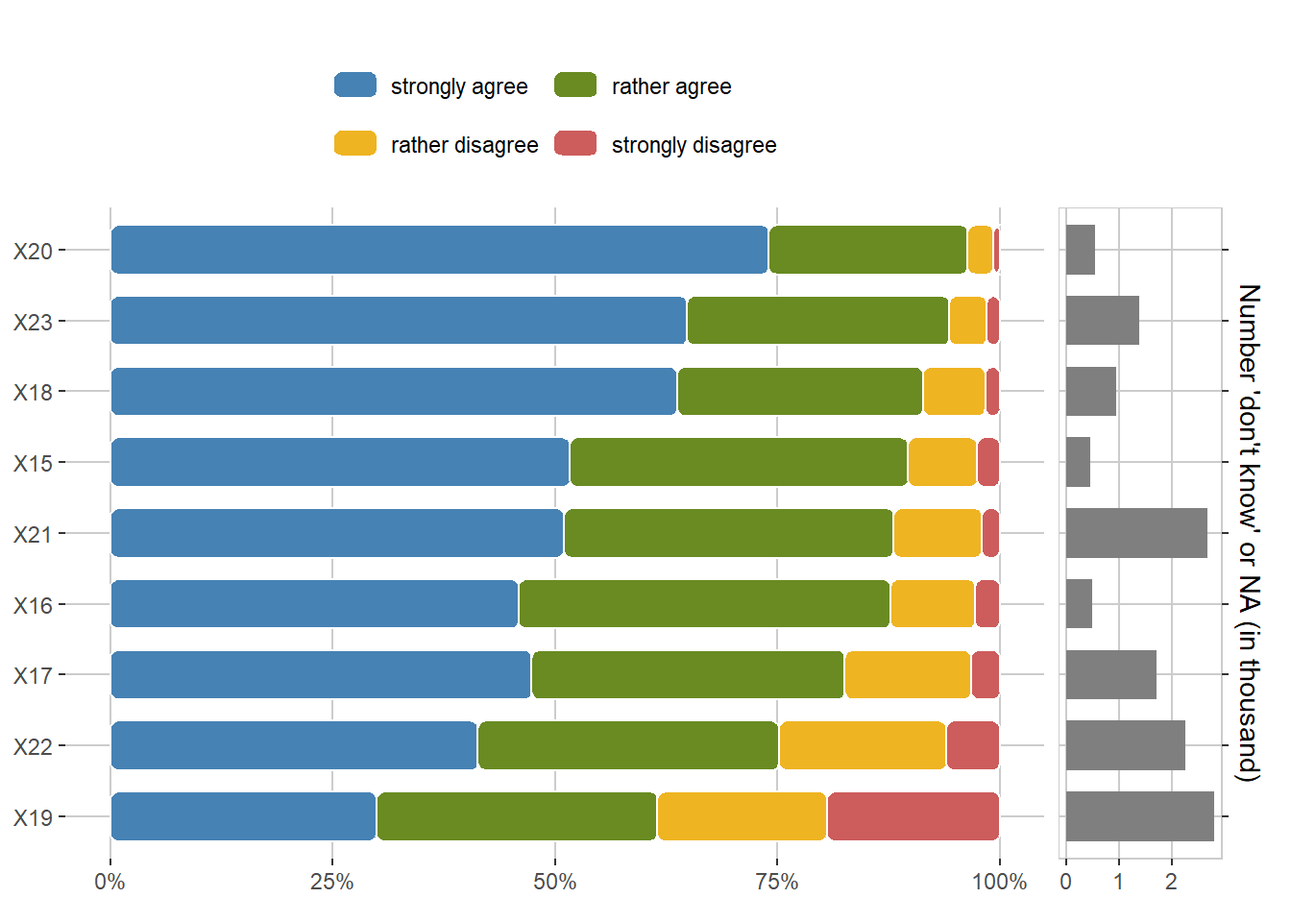
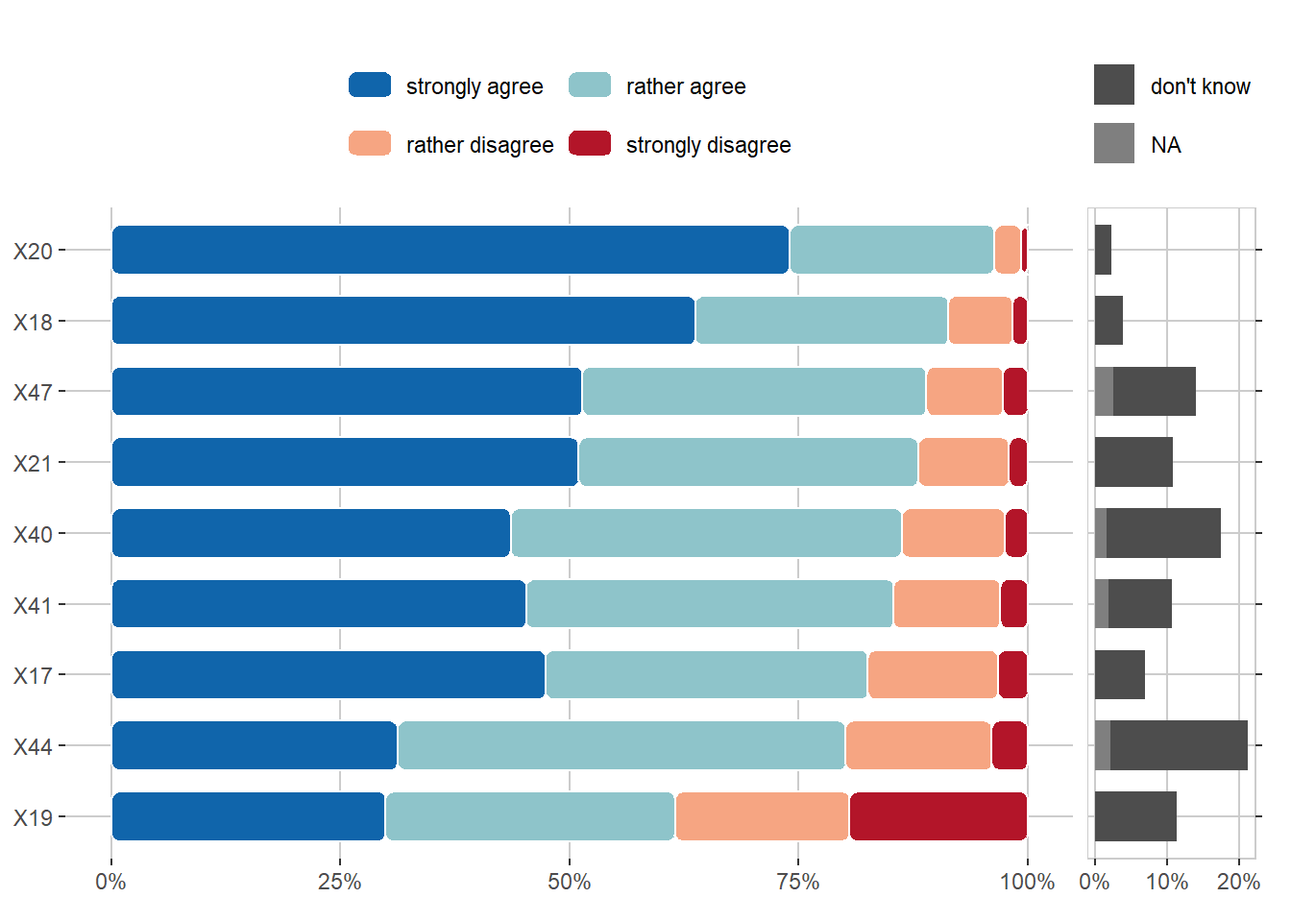
Create overview plots for all item subgroups

diff --git a/analysis_notebooks/survey_analysis.html b/analysis_notebooks/survey_analysis.html
@@ -103,27 +103,18 @@ pre > code.sourceCode > span > a:first-child::before { text-decoration: underlin
 
 </header>
 
-<section id="comparison-between-items" class="level1">
-<h1>Comparison between items</h1>
-<section id="agreement-x38-x52-open-science-focus" class="level2">
-<h2 class="anchored" data-anchor-id="agreement-x38-x52-open-science-focus">Agreement X38-X52 (open science focus)</h2>
-<p>The overviews are so far produced by the order of items in the survey. However, we plan to rearrange the items more by related topics and create overviews that way.</p>
-<section id="comparison-plot" class="level3">
-<h3 class="anchored" data-anchor-id="comparison-plot">Comparison Plot</h3>
-<p>This plot compares the selected answer categories across different agreement items and sorts them based on how many people agree. For better visualization, the labels are (for now) replaced by the short variable id. It might make sense to include only response from one year in one such plot (because otherwise some respondents would appear multiple times, while others won’t). The option to filter for a specific year is already implemented.</p>
+<section id="overview" class="level1">
+<h1>Overview</h1>
+<section id="research" class="level2">
+<h2 class="anchored" data-anchor-id="research">Research</h2>
+<section id="open-science" class="level3">
+<h3 class="anchored" data-anchor-id="open-science">Open Science</h3>
+<p>Multiple questions within the survey inquired about how much participants agreed with certain statements related to different Open Science practices. The full statements in this group and their respective variable ids are presented in the table below.</p>
 <div class="cell">
-<div class="sourceCode cell-code" id="cb1"><pre class="sourceCode r code-with-copy"><code class="sourceCode r"><span id="cb1-1"><a href="#cb1-1" aria-hidden="true" tabindex="-1"></a>columns <span class="ot">&lt;-</span> <span class="fu">paste0</span>(<span class="st">"X"</span>, <span class="dv">38</span><span class="sc">:</span><span class="dv">52</span>)</span>
-<span id="cb1-2"><a href="#cb1-2" aria-hidden="true" tabindex="-1"></a><span class="fu">plot_agreement_overview</span>(df, var_overview, columns, <span class="at">sort =</span> <span class="cn">TRUE</span>)</span></code><button title="Copy to Clipboard" class="code-copy-button"><i class="bi"></i></button></pre></div>
-<div class="cell-output-display">
-<p><img src="survey_analysis_files/figure-html/unnamed-chunk-2-1.png" class="img-fluid" width="672"></p>
-</div>
-</div>
-</section>
-<section id="full-statements" class="level3">
-<h3 class="anchored" data-anchor-id="full-statements">Full Statements</h3>
-<p>To look up the full statements that are referred to by the variable ids, we derive them here from our variable overview.</p>
-<div class="cell">
-<div class="sourceCode cell-code" id="cb2"><pre class="sourceCode r code-with-copy"><code class="sourceCode r"><span id="cb2-1"><a href="#cb2-1" aria-hidden="true" tabindex="-1"></a>knitr<span class="sc">::</span><span class="fu">kable</span>(var_overview[var_overview<span class="sc">$</span>var_id <span class="sc">%in%</span> columns, <span class="dv">1</span><span class="sc">:</span><span class="dv">2</span>])</span></code><button title="Copy to Clipboard" class="code-copy-button"><i class="bi"></i></button></pre></div>
+<div class="sourceCode cell-code" id="cb1"><pre class="sourceCode r code-with-copy"><code class="sourceCode r"><span id="cb1-1"><a href="#cb1-1" aria-hidden="true" tabindex="-1"></a>os <span class="ot">&lt;-</span> <span class="fu">c</span>(<span class="st">"X38"</span>, <span class="st">"X39"</span>, <span class="st">"X42"</span>, <span class="st">"X43"</span>, <span class="st">"X45"</span>,</span>
+<span id="cb1-2"><a href="#cb1-2" aria-hidden="true" tabindex="-1"></a>        <span class="st">"X46"</span>, <span class="st">"X48"</span>, <span class="st">"X49"</span>, <span class="st">"X50"</span>, <span class="st">"X52"</span>)</span>
+<span id="cb1-3"><a href="#cb1-3" aria-hidden="true" tabindex="-1"></a></span>
+<span id="cb1-4"><a href="#cb1-4" aria-hidden="true" tabindex="-1"></a>knitr<span class="sc">::</span><span class="fu">kable</span>(var_overview[var_overview<span class="sc">$</span>var_id <span class="sc">%in%</span> os, <span class="dv">1</span><span class="sc">:</span><span class="dv">2</span>])</span></code><button title="Copy to Clipboard" class="code-copy-button"><i class="bi"></i></button></pre></div>
 <div class="cell-output-display">
 <table class="table table-sm table-striped small">
 <colgroup>
@@ -146,14 +137,6 @@ pre > code.sourceCode > span > a:first-child::before { text-decoration: underlin
 <td style="text-align: left;">Research papers should be openly available even before the official peer review process, i.e.&nbsp;before a thorough review of their content.</td>
 </tr>
 <tr class="odd">
-<td style="text-align: left;">X40</td>
-<td style="text-align: left;">Authors should retain intellectual property rights to their published works, even at the cost of giving up some opportunities for free publication</td>
-</tr>
-<tr class="even">
-<td style="text-align: left;">X41</td>
-<td style="text-align: left;">Scholars should explain the results of their research to the general public in an understandable way.</td>
-</tr>
-<tr class="odd">
 <td style="text-align: left;">X42</td>
 <td style="text-align: left;">Researchers should publish author’s versions of manuscripts on open online resources such as Zenodo, institutional repositories, etc.</td>
 </tr>
@@ -162,20 +145,12 @@ pre > code.sourceCode > span > a:first-child::before { text-decoration: underlin
 <td style="text-align: left;">Researchers should invest time in describing their experimental data with appropriate metadata so that the data can be easily found and reused.</td>
 </tr>
 <tr class="odd">
-<td style="text-align: left;">X44</td>
-<td style="text-align: left;">Time should be invested in describing research methodology, tools, and experimental results in detail so that other researchers can reproduce them.</td>
-</tr>
-<tr class="even">
 <td style="text-align: left;">X45</td>
 <td style="text-align: left;">Experimental data should be published as openly as possible.</td>
 </tr>
-<tr class="odd">
+<tr class="even">
 <td style="text-align: left;">X46</td>
 <td style="text-align: left;">If software development is part of a research project, the source code should be published alongside the relevant scientific papers.</td>
-</tr>
-<tr class="even">
-<td style="text-align: left;">X47</td>
-<td style="text-align: left;">Researchers should always strive to ensure that their research serves a broad public purpose, regardless of the field of science in which they work.</td>
 </tr>
 <tr class="odd">
 <td style="text-align: left;">X48</td>
@@ -190,10 +165,6 @@ pre > code.sourceCode > span > a:first-child::before { text-decoration: underlin
 <td style="text-align: left;">Authors of research papers and peer reviewers should be able to communicate directly without intermediaries.</td>
 </tr>
 <tr class="even">
-<td style="text-align: left;">X51</td>
-<td style="text-align: left;">Higher education institutions should provide open access to their educational resources (textbooks, manuals, various digital tools, etc.) for everyone.</td>
-</tr>
-<tr class="odd">
 <td style="text-align: left;">X52</td>
 <td style="text-align: left;">I can explain what “open science” is.</td>
 </tr>
@@ -201,30 +172,26 @@ pre > code.sourceCode > span > a:first-child::before { text-decoration: underlin
 </table>
 </div>
 </div>
-</section>
-</section>
-<section id="agreement-x15-x23-research-integrity-focus" class="level2">
-<h2 class="anchored" data-anchor-id="agreement-x15-x23-research-integrity-focus">Agreement X15-X23 (research integrity focus)</h2>
-<section id="comparison-plot-1" class="level3">
-<h3 class="anchored" data-anchor-id="comparison-plot-1">Comparison Plot</h3>
-<p>Caution: X19 is phrased as an inverted item, while all others are not. This needs to be considered for interpretation</p>
+<p>In the following figure, responses are visualized to the Open Science questions. They are sorted by the amount of agreement with these statements. Proportions of the different answer categories were calculated after removing missing and “don’t know” responses. These responses are plotted separately on the right hand side, indicating their percentage of the total responses.</p>
 <div class="cell">
-<div class="sourceCode cell-code" id="cb3"><pre class="sourceCode r code-with-copy"><code class="sourceCode r"><span id="cb3-1"><a href="#cb3-1" aria-hidden="true" tabindex="-1"></a>columns <span class="ot">&lt;-</span> <span class="fu">paste0</span>(<span class="st">"X"</span>, <span class="dv">15</span><span class="sc">:</span><span class="dv">23</span>)</span>
-<span id="cb3-2"><a href="#cb3-2" aria-hidden="true" tabindex="-1"></a><span class="fu">plot_agreement_overview</span>(df, var_overview, columns)</span></code><button title="Copy to Clipboard" class="code-copy-button"><i class="bi"></i></button></pre></div>
+<div class="sourceCode cell-code" id="cb2"><pre class="sourceCode r code-with-copy"><code class="sourceCode r"><span id="cb2-1"><a href="#cb2-1" aria-hidden="true" tabindex="-1"></a><span class="fu">plot_agreement_overview</span>(df, var_overview, os)</span></code><button title="Copy to Clipboard" class="code-copy-button"><i class="bi"></i></button></pre></div>
 <div class="cell-output-display">
-<p><img src="survey_analysis_files/figure-html/unnamed-chunk-4-1.png" class="img-fluid" width="672"></p>
+<p><img src="survey_analysis_files/figure-html/unnamed-chunk-3-1.png" class="img-fluid" width="672"></p>
 </div>
 </div>
 </section>
-<section id="full-statements-1" class="level3">
-<h3 class="anchored" data-anchor-id="full-statements-1">Full Statements</h3>
+<section id="reporting-and-academic-integrity" class="level3">
+<h3 class="anchored" data-anchor-id="reporting-and-academic-integrity">Reporting and Academic Integrity</h3>
+<p>Nine items inquire about the agreement with statements related to reporting and academic integrity. The full items are presented in the table below.</p>
 <div class="cell">
-<div class="sourceCode cell-code" id="cb4"><pre class="sourceCode r code-with-copy"><code class="sourceCode r"><span id="cb4-1"><a href="#cb4-1" aria-hidden="true" tabindex="-1"></a>knitr<span class="sc">::</span><span class="fu">kable</span>(var_overview[var_overview<span class="sc">$</span>var_id <span class="sc">%in%</span> columns, <span class="dv">1</span><span class="sc">:</span><span class="dv">2</span>])</span></code><button title="Copy to Clipboard" class="code-copy-button"><i class="bi"></i></button></pre></div>
+<div class="sourceCode cell-code" id="cb3"><pre class="sourceCode r code-with-copy"><code class="sourceCode r"><span id="cb3-1"><a href="#cb3-1" aria-hidden="true" tabindex="-1"></a>raia <span class="ot">&lt;-</span> <span class="fu">c</span>(<span class="st">"X19"</span>, <span class="st">"X17"</span>, <span class="st">"X18"</span>, <span class="st">"X20"</span>, <span class="st">"X21"</span>,</span>
+<span id="cb3-2"><a href="#cb3-2" aria-hidden="true" tabindex="-1"></a>          <span class="st">"X40"</span>, <span class="st">"X44"</span>, <span class="st">"X41"</span>, <span class="st">"X47"</span>)</span>
+<span id="cb3-3"><a href="#cb3-3" aria-hidden="true" tabindex="-1"></a>knitr<span class="sc">::</span><span class="fu">kable</span>(var_overview[var_overview<span class="sc">$</span>var_id <span class="sc">%in%</span> raia, <span class="dv">1</span><span class="sc">:</span><span class="dv">2</span>])</span></code><button title="Copy to Clipboard" class="code-copy-button"><i class="bi"></i></button></pre></div>
 <div class="cell-output-display">
 <table class="table table-sm table-striped small">
 <colgroup>
-<col style="width: 5%">
-<col style="width: 94%">
+<col style="width: 4%">
+<col style="width: 95%">
 </colgroup>
 <thead>
 <tr class="header">
@@ -233,14 +200,6 @@ pre > code.sourceCode > span > a:first-child::before { text-decoration: underlin
 </tr>
 </thead>
 <tbody>
-<tr class="odd">
-<td style="text-align: left;">X15</td>
-<td style="text-align: left;">Overall, the processes at my higher education institution are organised in a clear and transparent manner</td>
-</tr>
-<tr class="even">
-<td style="text-align: left;">X16</td>
-<td style="text-align: left;">The quality of educational services at my higher education institution is high</td>
-</tr>
 <tr class="odd">
 <td style="text-align: left;">X17</td>
 <td style="text-align: left;">Researchers should publish all research results (both positive and negative)</td>
@@ -262,35 +221,36 @@ pre > code.sourceCode > span > a:first-child::before { text-decoration: underlin
 <td style="text-align: left;">Researchers should report any conflicts of interest when publishing research results and applying for funding</td>
 </tr>
 <tr class="even">
-<td style="text-align: left;">X22</td>
-<td style="text-align: left;">Students should openly publish the full texts of their diploma theses</td>
+<td style="text-align: left;">X40</td>
+<td style="text-align: left;">Authors should retain intellectual property rights to their published works, even at the cost of giving up some opportunities for free publication</td>
 </tr>
 <tr class="odd">
-<td style="text-align: left;">X23</td>
-<td style="text-align: left;">Students must understand what constitutes inappropriate academic behavior and report it to the appropriate authorities</td>
+<td style="text-align: left;">X41</td>
+<td style="text-align: left;">Scholars should explain the results of their research to the general public in an understandable way.</td>
+</tr>
+<tr class="even">
+<td style="text-align: left;">X44</td>
+<td style="text-align: left;">Time should be invested in describing research methodology, tools, and experimental results in detail so that other researchers can reproduce them.</td>
+</tr>
+<tr class="odd">
+<td style="text-align: left;">X47</td>
+<td style="text-align: left;">Researchers should always strive to ensure that their research serves a broad public purpose, regardless of the field of science in which they work.</td>
 </tr>
 </tbody>
 </table>
 </div>
 </div>
-</section>
-</section>
-<section id="frequency-of-certain-practices-at-own-institution-x24-x37" class="level2">
-<h2 class="anchored" data-anchor-id="frequency-of-certain-practices-at-own-institution-x24-x37">Frequency of certain practices at own institution (X24-X37)</h2>
-<section id="comparison-plot-2" class="level3">
-<h3 class="anchored" data-anchor-id="comparison-plot-2">Comparison Plot</h3>
+<p>Caution: Question X19 (“Changes to the experimental data […] are acceptable”) is the only statement phrased in the opposite direction. This needs to be considered when interpreting the responses.</p>
 <div class="cell">
-<div class="sourceCode cell-code" id="cb5"><pre class="sourceCode r code-with-copy"><code class="sourceCode r"><span id="cb5-1"><a href="#cb5-1" aria-hidden="true" tabindex="-1"></a>columns <span class="ot">&lt;-</span> <span class="fu">paste0</span>(<span class="st">"X"</span>, <span class="dv">24</span><span class="sc">:</span><span class="dv">37</span>)</span>
-<span id="cb5-2"><a href="#cb5-2" aria-hidden="true" tabindex="-1"></a><span class="fu">plot_frequency_overview</span>(df, var_overview, columns)</span></code><button title="Copy to Clipboard" class="code-copy-button"><i class="bi"></i></button></pre></div>
+<div class="sourceCode cell-code" id="cb4"><pre class="sourceCode r code-with-copy"><code class="sourceCode r"><span id="cb4-1"><a href="#cb4-1" aria-hidden="true" tabindex="-1"></a><span class="fu">plot_agreement_overview</span>(df, var_overview, raia)</span></code><button title="Copy to Clipboard" class="code-copy-button"><i class="bi"></i></button></pre></div>
 <div class="cell-output-display">
-<p><img src="survey_analysis_files/figure-html/unnamed-chunk-6-1.png" class="img-fluid" width="672"></p>
+<p><img src="survey_analysis_files/figure-html/unnamed-chunk-5-1.png" class="img-fluid" width="672"></p>
 </div>
 </div>
-</section>
-<section id="full-statements-2" class="level3">
-<h3 class="anchored" data-anchor-id="full-statements-2">Full Statements</h3>
+<p>Six questions were about the frequency with which certain questionable research practices around reporting occur at the respondent’s institution (see table below).</p>
 <div class="cell">
-<div class="sourceCode cell-code" id="cb6"><pre class="sourceCode r code-with-copy"><code class="sourceCode r"><span id="cb6-1"><a href="#cb6-1" aria-hidden="true" tabindex="-1"></a>knitr<span class="sc">::</span><span class="fu">kable</span>(var_overview[var_overview<span class="sc">$</span>var_id <span class="sc">%in%</span> columns, <span class="dv">1</span><span class="sc">:</span><span class="dv">2</span>])</span></code><button title="Copy to Clipboard" class="code-copy-button"><i class="bi"></i></button></pre></div>
+<div class="sourceCode cell-code" id="cb5"><pre class="sourceCode r code-with-copy"><code class="sourceCode r"><span id="cb5-1"><a href="#cb5-1" aria-hidden="true" tabindex="-1"></a>raif <span class="ot">&lt;-</span> <span class="fu">c</span>(<span class="st">"X24"</span>, <span class="st">"X25"</span>, <span class="st">"X26"</span>, <span class="st">"X27"</span>, <span class="st">"X28"</span>, <span class="st">"X29"</span>)</span>
+<span id="cb5-2"><a href="#cb5-2" aria-hidden="true" tabindex="-1"></a>knitr<span class="sc">::</span><span class="fu">kable</span>(var_overview[var_overview<span class="sc">$</span>var_id <span class="sc">%in%</span> raif, <span class="dv">1</span><span class="sc">:</span><span class="dv">2</span>])</span></code><button title="Copy to Clipboard" class="code-copy-button"><i class="bi"></i></button></pre></div>
 <div class="cell-output-display">
 <table class="table table-sm table-striped small">
 <colgroup>
@@ -328,6 +288,81 @@ pre > code.sourceCode > span > a:first-child::before { text-decoration: underlin
 <td style="text-align: left;">X29</td>
 <td style="text-align: left;">A person attributes to himself or herself the authorship of a work (assignment, article, etc.) that he or she did not actually perform, but arranged for others to perform it for a fee or in another way.</td>
 </tr>
+</tbody>
+</table>
+</div>
+</div>
+<p>The following overview plot is sorted by the proportion of “never” and “rarely” responses. These questions could not be skipped, therefore there are no missing answers.</p>
+<div class="cell">
+<div class="sourceCode cell-code" id="cb6"><pre class="sourceCode r code-with-copy"><code class="sourceCode r"><span id="cb6-1"><a href="#cb6-1" aria-hidden="true" tabindex="-1"></a><span class="fu">plot_frequency_overview</span>(df, var_overview, raif)</span></code><button title="Copy to Clipboard" class="code-copy-button"><i class="bi"></i></button></pre></div>
+<div class="cell-output-display">
+<p><img src="survey_analysis_files/figure-html/unnamed-chunk-7-1.png" class="img-fluid" width="672"></p>
+</div>
+</div>
+</section>
+</section>
+<section id="education" class="level2">
+<h2 class="anchored" data-anchor-id="education">Education</h2>
+<p>While most questions referred to research, others focused more on education at the respective HEI. Respondents were inquired about their agreement with certain education-related statements (see table below), most of them also related to Open Science, but in an educational context.</p>
+<div class="cell">
+<div class="sourceCode cell-code" id="cb7"><pre class="sourceCode r code-with-copy"><code class="sourceCode r"><span id="cb7-1"><a href="#cb7-1" aria-hidden="true" tabindex="-1"></a>edua <span class="ot">&lt;-</span> <span class="fu">c</span>(<span class="st">"X16"</span>, <span class="st">"X22"</span>, <span class="st">"X23"</span>, <span class="st">"X51"</span>)</span>
+<span id="cb7-2"><a href="#cb7-2" aria-hidden="true" tabindex="-1"></a>knitr<span class="sc">::</span><span class="fu">kable</span>(var_overview[var_overview<span class="sc">$</span>var_id <span class="sc">%in%</span> edua, <span class="dv">1</span><span class="sc">:</span><span class="dv">2</span>])</span></code><button title="Copy to Clipboard" class="code-copy-button"><i class="bi"></i></button></pre></div>
+<div class="cell-output-display">
+<table class="table table-sm table-striped small">
+<colgroup>
+<col style="width: 4%">
+<col style="width: 95%">
+</colgroup>
+<thead>
+<tr class="header">
+<th style="text-align: left;">var_id</th>
+<th style="text-align: left;">var_full</th>
+</tr>
+</thead>
+<tbody>
+<tr class="odd">
+<td style="text-align: left;">X16</td>
+<td style="text-align: left;">The quality of educational services at my higher education institution is high</td>
+</tr>
+<tr class="even">
+<td style="text-align: left;">X22</td>
+<td style="text-align: left;">Students should openly publish the full texts of their diploma theses</td>
+</tr>
+<tr class="odd">
+<td style="text-align: left;">X23</td>
+<td style="text-align: left;">Students must understand what constitutes inappropriate academic behavior and report it to the appropriate authorities</td>
+</tr>
+<tr class="even">
+<td style="text-align: left;">X51</td>
+<td style="text-align: left;">Higher education institutions should provide open access to their educational resources (textbooks, manuals, various digital tools, etc.) for everyone.</td>
+</tr>
+</tbody>
+</table>
+</div>
+</div>
+<div class="cell">
+<div class="sourceCode cell-code" id="cb8"><pre class="sourceCode r code-with-copy"><code class="sourceCode r"><span id="cb8-1"><a href="#cb8-1" aria-hidden="true" tabindex="-1"></a><span class="fu">plot_agreement_overview</span>(df, var_overview, edua, <span class="at">sort =</span> <span class="cn">FALSE</span>)</span></code><button title="Copy to Clipboard" class="code-copy-button"><i class="bi"></i></button></pre></div>
+<div class="cell-output-display">
+<p><img src="survey_analysis_files/figure-html/unnamed-chunk-9-1.png" class="img-fluid" width="672"></p>
+</div>
+</div>
+<p>The occurrence of three different types of student misconduct were also investigated within the survey (see table and figure below).</p>
+<div class="cell">
+<div class="sourceCode cell-code" id="cb9"><pre class="sourceCode r code-with-copy"><code class="sourceCode r"><span id="cb9-1"><a href="#cb9-1" aria-hidden="true" tabindex="-1"></a>eduf <span class="ot">&lt;-</span> <span class="fu">c</span>(<span class="st">"X30"</span>, <span class="st">"X31"</span>, <span class="st">"X32"</span>)</span>
+<span id="cb9-2"><a href="#cb9-2" aria-hidden="true" tabindex="-1"></a>knitr<span class="sc">::</span><span class="fu">kable</span>(var_overview[var_overview<span class="sc">$</span>var_id <span class="sc">%in%</span> eduf, <span class="dv">1</span><span class="sc">:</span><span class="dv">2</span>])</span></code><button title="Copy to Clipboard" class="code-copy-button"><i class="bi"></i></button></pre></div>
+<div class="cell-output-display">
+<table class="table table-sm table-striped small">
+<colgroup>
+<col style="width: 7%">
+<col style="width: 92%">
+</colgroup>
+<thead>
+<tr class="header">
+<th style="text-align: left;">var_id</th>
+<th style="text-align: left;">var_full</th>
+</tr>
+</thead>
+<tbody>
 <tr class="odd">
 <td style="text-align: left;">X30</td>
 <td style="text-align: left;">Students help each other during exams or tests.</td>
@@ -340,23 +375,53 @@ pre > code.sourceCode > span > a:first-child::before { text-decoration: underlin
 <td style="text-align: left;">X32</td>
 <td style="text-align: left;">Students and teachers use unauthorized software (so-called “pirated software”).</td>
 </tr>
-<tr class="even">
+</tbody>
+</table>
+</div>
+</div>
+<div class="cell">
+<div class="sourceCode cell-code" id="cb10"><pre class="sourceCode r code-with-copy"><code class="sourceCode r"><span id="cb10-1"><a href="#cb10-1" aria-hidden="true" tabindex="-1"></a><span class="fu">plot_frequency_overview</span>(df, var_overview, eduf)</span></code><button title="Copy to Clipboard" class="code-copy-button"><i class="bi"></i></button></pre></div>
+<div class="cell-output-display">
+<p><img src="survey_analysis_files/figure-html/unnamed-chunk-11-1.png" class="img-fluid" width="672"></p>
+</div>
+</div>
+</section>
+<section id="institutionadministration" class="level2">
+<h2 class="anchored" data-anchor-id="institutionadministration">Institution/Administration</h2>
+<p>The survey contained five questions on how misconduct is handled at the respondent’s respective institution. Respondents indicated the frequency with which certain practices occurred at their institution.</p>
+<div class="cell">
+<div class="sourceCode cell-code" id="cb11"><pre class="sourceCode r code-with-copy"><code class="sourceCode r"><span id="cb11-1"><a href="#cb11-1" aria-hidden="true" tabindex="-1"></a>adm <span class="ot">&lt;-</span> <span class="fu">c</span>(<span class="st">"X33"</span>, <span class="st">"X34"</span>, <span class="st">"X35"</span>, <span class="st">"X36"</span>, <span class="st">"X37"</span>)</span>
+<span id="cb11-2"><a href="#cb11-2" aria-hidden="true" tabindex="-1"></a>knitr<span class="sc">::</span><span class="fu">kable</span>(var_overview[var_overview<span class="sc">$</span>var_id <span class="sc">%in%</span> adm, <span class="dv">1</span><span class="sc">:</span><span class="dv">2</span>])</span></code><button title="Copy to Clipboard" class="code-copy-button"><i class="bi"></i></button></pre></div>
+<div class="cell-output-display">
+<table class="table table-sm table-striped small">
+<colgroup>
+<col style="width: 6%">
+<col style="width: 93%">
+</colgroup>
+<thead>
+<tr class="header">
+<th style="text-align: left;">var_id</th>
+<th style="text-align: left;">var_full</th>
+</tr>
+</thead>
+<tbody>
+<tr class="odd">
 <td style="text-align: left;">X33</td>
 <td style="text-align: left;">Incitement to violate academic integrity.</td>
 </tr>
-<tr class="odd">
+<tr class="even">
 <td style="text-align: left;">X34</td>
 <td style="text-align: left;">The administration of the institution tolerates cases of academic dishonesty.</td>
 </tr>
-<tr class="even">
+<tr class="odd">
 <td style="text-align: left;">X35</td>
 <td style="text-align: left;">Falsely accusing a student or employee of misconduct or other violations.</td>
 </tr>
-<tr class="odd">
+<tr class="even">
 <td style="text-align: left;">X36</td>
 <td style="text-align: left;">Abuse of official position or authority to encourage academic dishonesty.</td>
 </tr>
-<tr class="even">
+<tr class="odd">
 <td style="text-align: left;">X37</td>
 <td style="text-align: left;">The university administration accuses and punishes whistleblowers of academic integrity violations.</td>
 </tr>
@@ -364,43 +429,20 @@ pre > code.sourceCode > span > a:first-child::before { text-decoration: underlin
 </table>
 </div>
 </div>
-</section>
-</section>
-</section>
-<section id="comparison-within-one-item" class="level1">
-<h1>Comparison within one item</h1>
-<section id="agreement" class="level2">
-<h2 class="anchored" data-anchor-id="agreement">Agreement</h2>
-<section id="open-data" class="level3">
-<h3 class="anchored" data-anchor-id="open-data">Open data</h3>
-<p>“Experimental data should be published as openly as possible.” (X45)</p>
-<p>Data here is grouped by the survey year, therefore allowing quick visual comparisons. There is a plan to have more specific visualizations for developments over time.</p>
 <div class="cell">
-<div class="sourceCode cell-code" id="cb7"><pre class="sourceCode r code-with-copy"><code class="sourceCode r"><span id="cb7-1"><a href="#cb7-1" aria-hidden="true" tabindex="-1"></a><span class="fu">plot_agreement</span>(df, var_overview, <span class="st">"X45"</span>, <span class="at">group =</span> <span class="st">"X64"</span>)</span></code><button title="Copy to Clipboard" class="code-copy-button"><i class="bi"></i></button></pre></div>
+<div class="sourceCode cell-code" id="cb12"><pre class="sourceCode r code-with-copy"><code class="sourceCode r"><span id="cb12-1"><a href="#cb12-1" aria-hidden="true" tabindex="-1"></a><span class="fu">plot_frequency_overview</span>(df, var_overview, adm)</span></code><button title="Copy to Clipboard" class="code-copy-button"><i class="bi"></i></button></pre></div>
 <div class="cell-output-display">
-<p><img src="survey_analysis_files/figure-html/unnamed-chunk-8-1.png" class="img-fluid" width="672"></p>
+<p><img src="survey_analysis_files/figure-html/unnamed-chunk-13-1.png" class="img-fluid" width="672"></p>
 </div>
 </div>
-</section>
-</section>
-<section id="frequency-of-certain-practices-at-own-institution" class="level2">
-<h2 class="anchored" data-anchor-id="frequency-of-certain-practices-at-own-institution">Frequency of certain practices at own institution</h2>
-<section id="fabrications" class="level3">
-<h3 class="anchored" data-anchor-id="fabrications">Fabrications</h3>
-<p>“Making up data or facts about a scientific activity, for example, a research experiment.” (X26)</p>
-<p>Data here is filtered for the year 2023 and grouped by academic role (which is a variable that could benefit from merging some categories). The groups are sorted by the frequency they estimate. However, we could sort the groups also in some other way as desired.</p>
+<p>One general item also inquired about the following statement: “Overall, the processes at my higher education institution are organised in a clear and transparent manner”. The agreement is visualized by the different institutional surveys vs.&nbsp;the national survey.</p>
 <div class="cell">
-<div class="sourceCode cell-code" id="cb8"><pre class="sourceCode r code-with-copy"><code class="sourceCode r"><span id="cb8-1"><a href="#cb8-1" aria-hidden="true" tabindex="-1"></a><span class="fu">plot_frequency</span>(df, var_overview, <span class="st">"X26"</span>, <span class="at">group =</span> <span class="st">"X8"</span>,</span>
-<span id="cb8-2"><a href="#cb8-2" aria-hidden="true" tabindex="-1"></a>               <span class="at">filter =</span> <span class="st">"X64"</span>, <span class="at">filter_val =</span> <span class="st">"2023"</span>, <span class="at">sort =</span> <span class="cn">TRUE</span>)</span></code><button title="Copy to Clipboard" class="code-copy-button"><i class="bi"></i></button></pre></div>
+<div class="sourceCode cell-code" id="cb13"><pre class="sourceCode r code-with-copy"><code class="sourceCode r"><span id="cb13-1"><a href="#cb13-1" aria-hidden="true" tabindex="-1"></a>df<span class="sc">$</span>X63 <span class="ot">&lt;-</span> <span class="fu">factor</span>(df<span class="sc">$</span>X63, <span class="at">levels =</span> <span class="fu">c</span>(<span class="st">"National"</span>, <span class="st">"LPU"</span>, <span class="st">"SumDU"</span>, <span class="st">"DonNU"</span>, <span class="st">"LutskNTU"</span>))</span>
+<span id="cb13-2"><a href="#cb13-2" aria-hidden="true" tabindex="-1"></a><span class="fu">plot_agreement</span>(df, var_overview, <span class="st">"X15"</span>, <span class="at">group =</span> <span class="st">"X63"</span>)</span></code><button title="Copy to Clipboard" class="code-copy-button"><i class="bi"></i></button></pre></div>
 <div class="cell-output-display">
-<p><img src="survey_analysis_files/figure-html/unnamed-chunk-9-1.png" class="img-fluid" width="672"></p>
+<p><img src="survey_analysis_files/figure-html/unnamed-chunk-14-1.png" class="img-fluid" width="672"></p>
 </div>
 </div>
-</section>
-</section>
-<section id="section" class="level2">
-<h2 class="anchored" data-anchor-id="section"></h2>
-<p>Additionally to these plots, we can also produce large overview tables that would allow to investigate certain items, groups or categories more closely. However, these were left out for now due to their size. Visualizations will also be adapted and optimized (e.g., labelling of axes), but some issues at the moment are also caused by rendering that will be solved later.</p>
 </section>
 </section>
 
